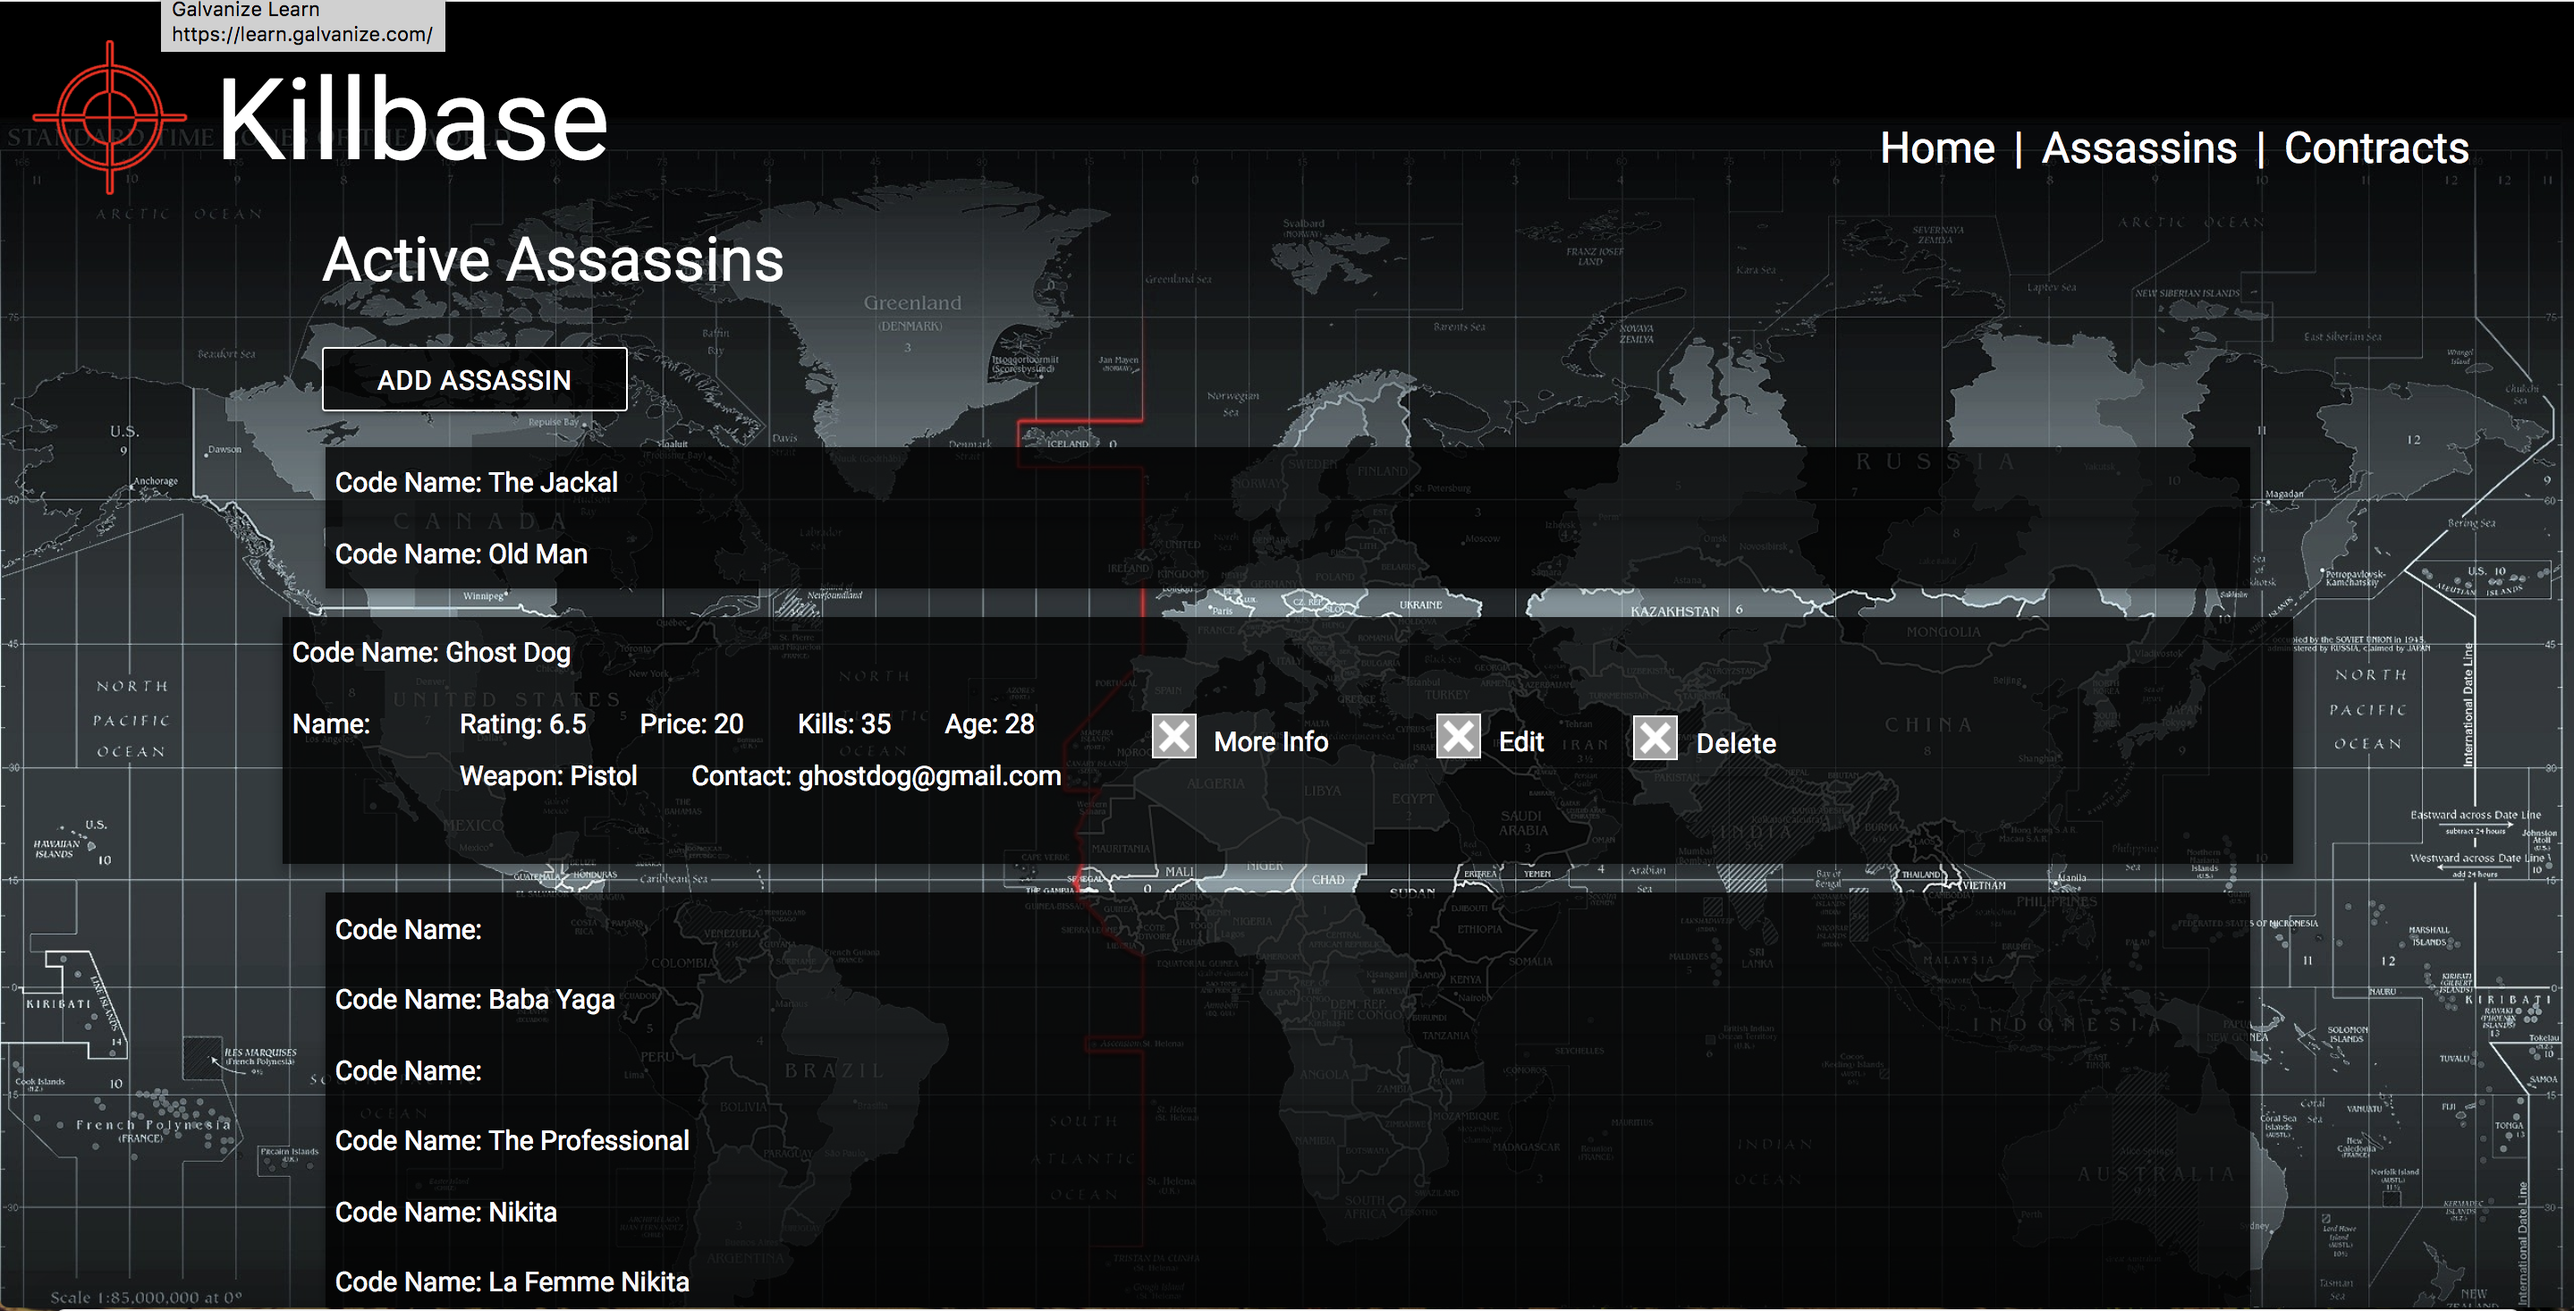
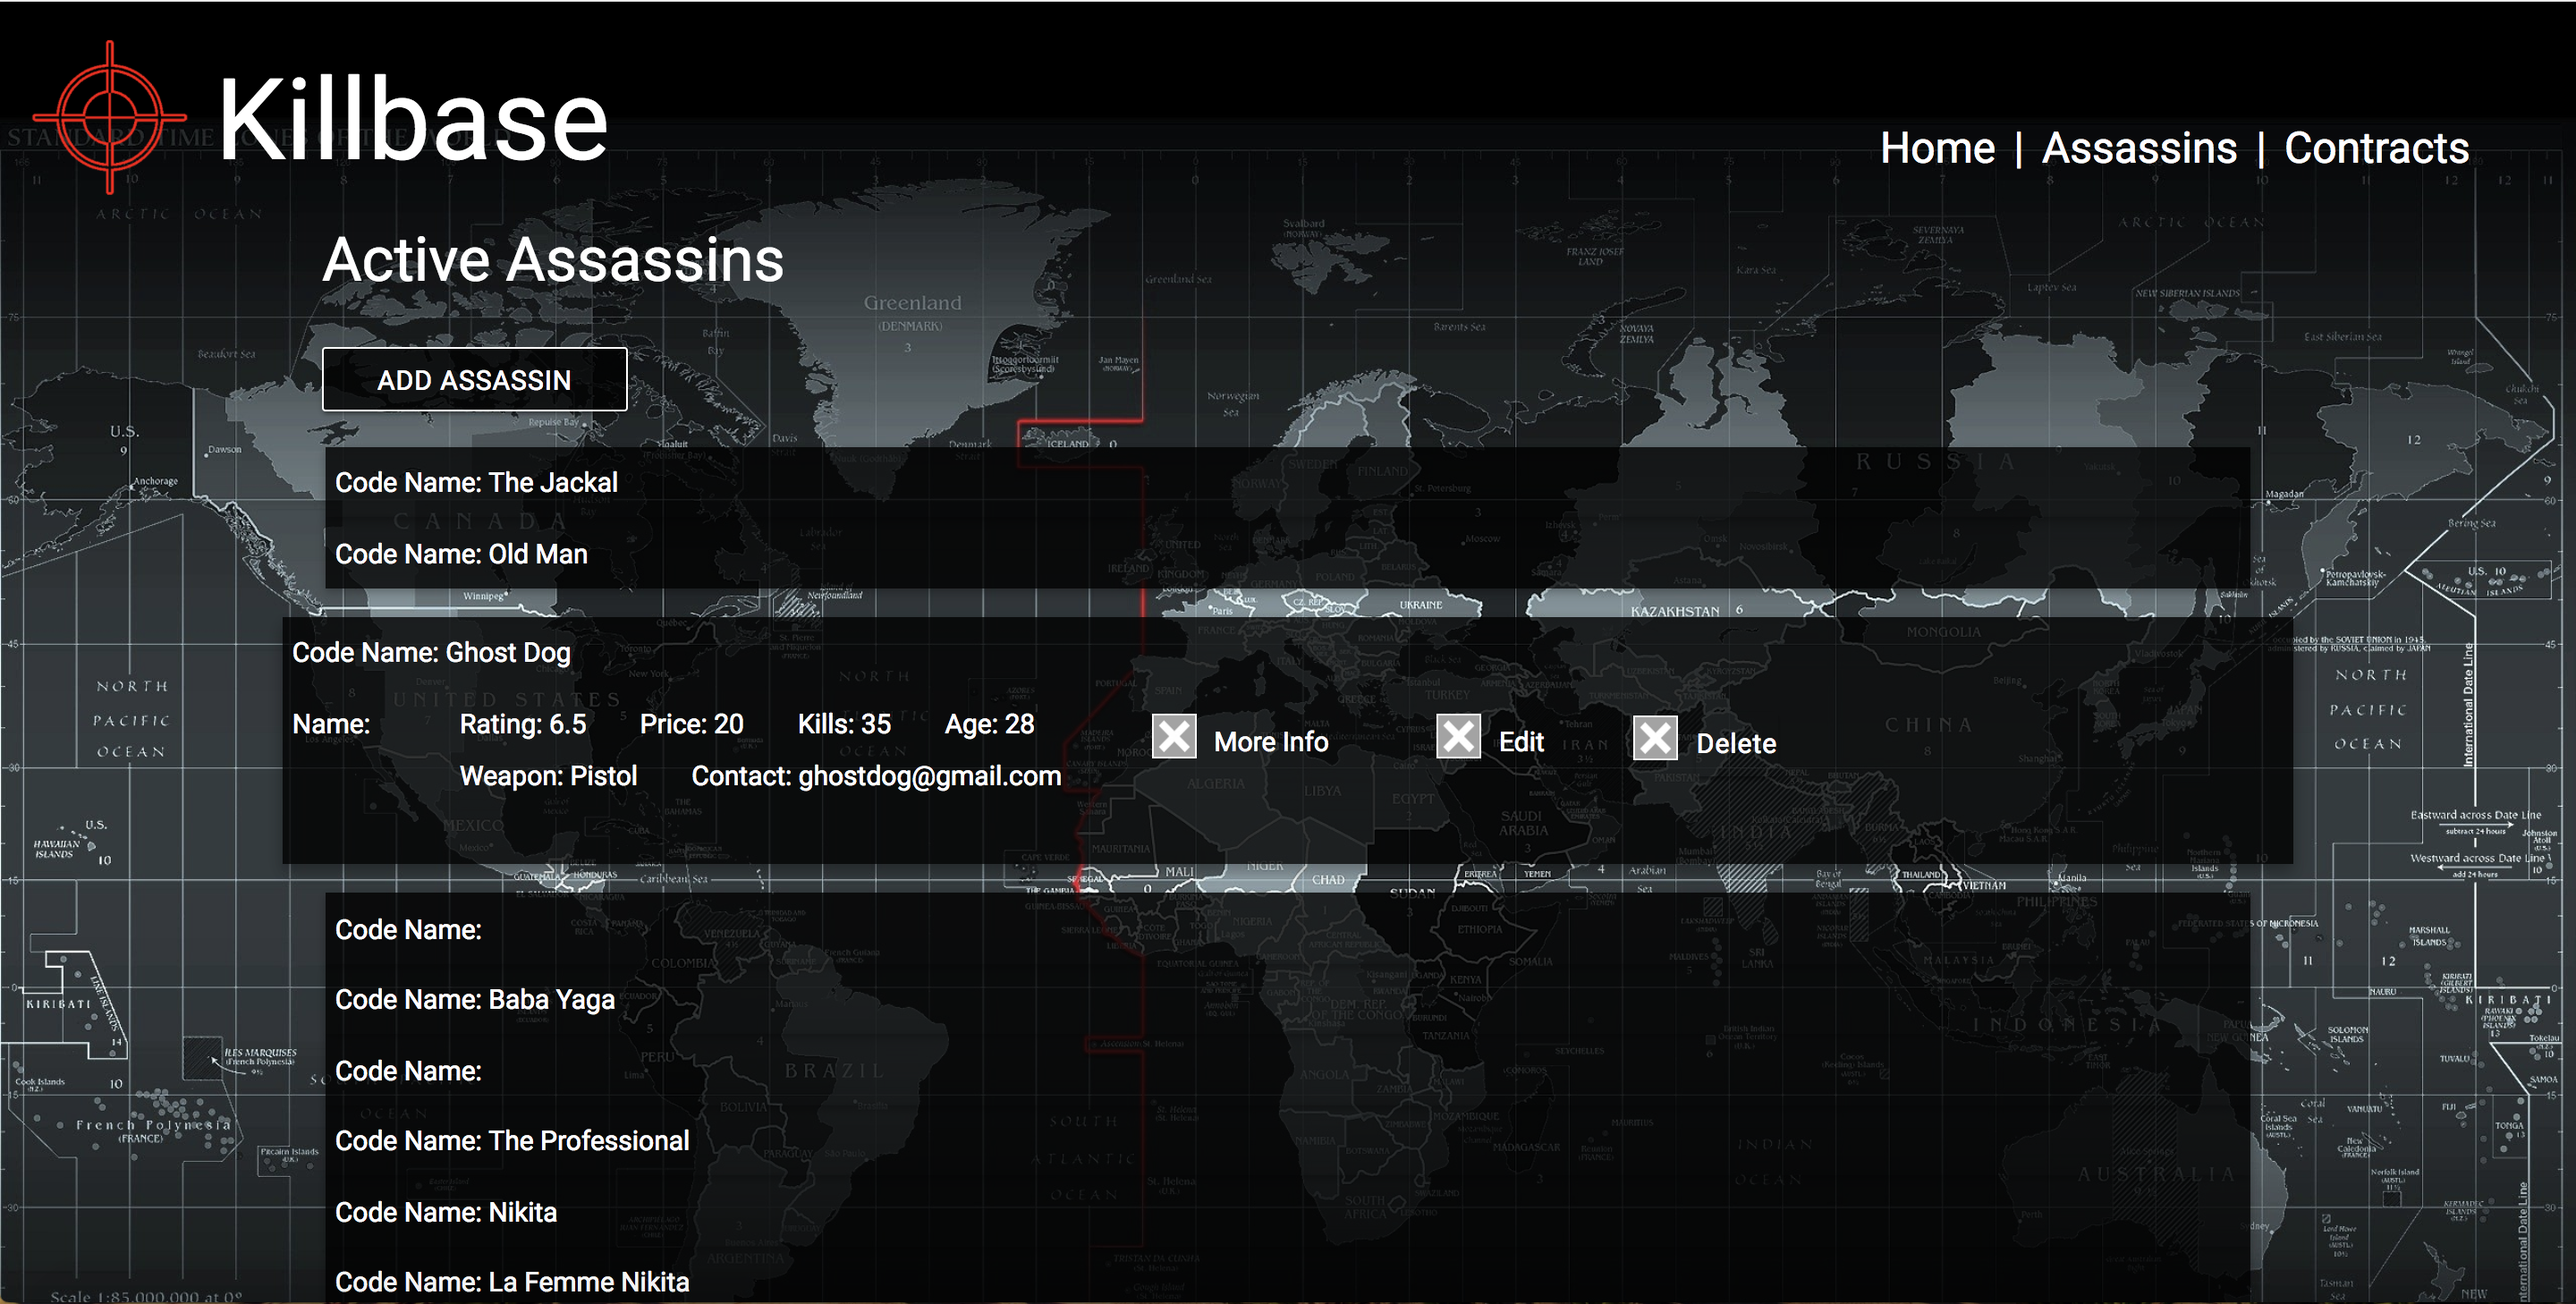
Updated screenshot size

diff --git a/README.md b/README.md
@@ -37,16 +37,19 @@ Heroku db seed: ```heroku run knex seed:run```
 ## Application Screenshots
 
 Homepage
-![Alt](/public/kb1.png)
+
+<img src="/public/kb1.png" alt="alt text" width="75%" height="75%">
 
 Assassins
-![Alt](/public/kb2.png)
 
-![Alt](/public/kb3.png)
+<img src="/public/kb2.png" alt="alt text" width="75%" height="75%">
 
-![Alt](/public/kb4.png)
+<img src="/public/kb3.png" alt="alt text" width="75%" height="75%">
+
+<img src="/public/kb4.png" alt="alt text" width="75%" height="75%">
 
 Contracts
-![Alt](/public/kb5.png)
 
-![Alt](/public/kb6.png)
+<img src="/public/kb5.png" alt="alt text" width="75%" height="75%">
+
+<img src="/public/kb6.png" alt="alt text" width="75%" height="75%">
